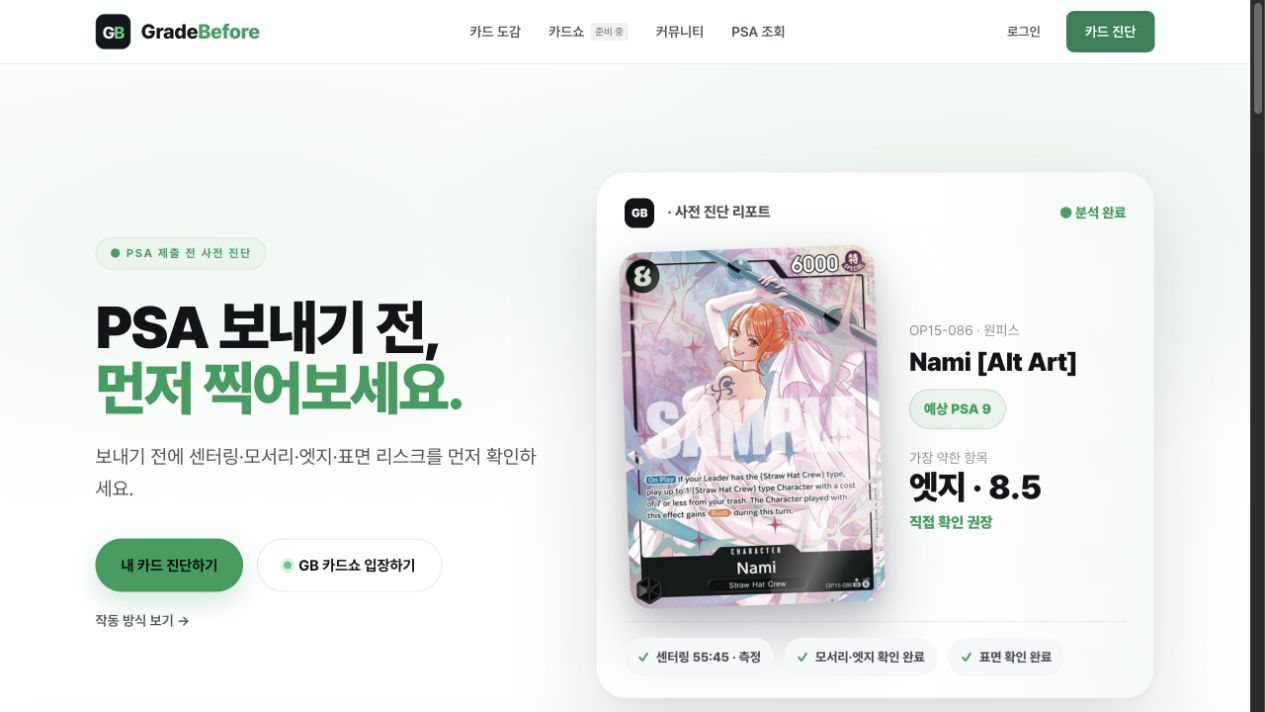
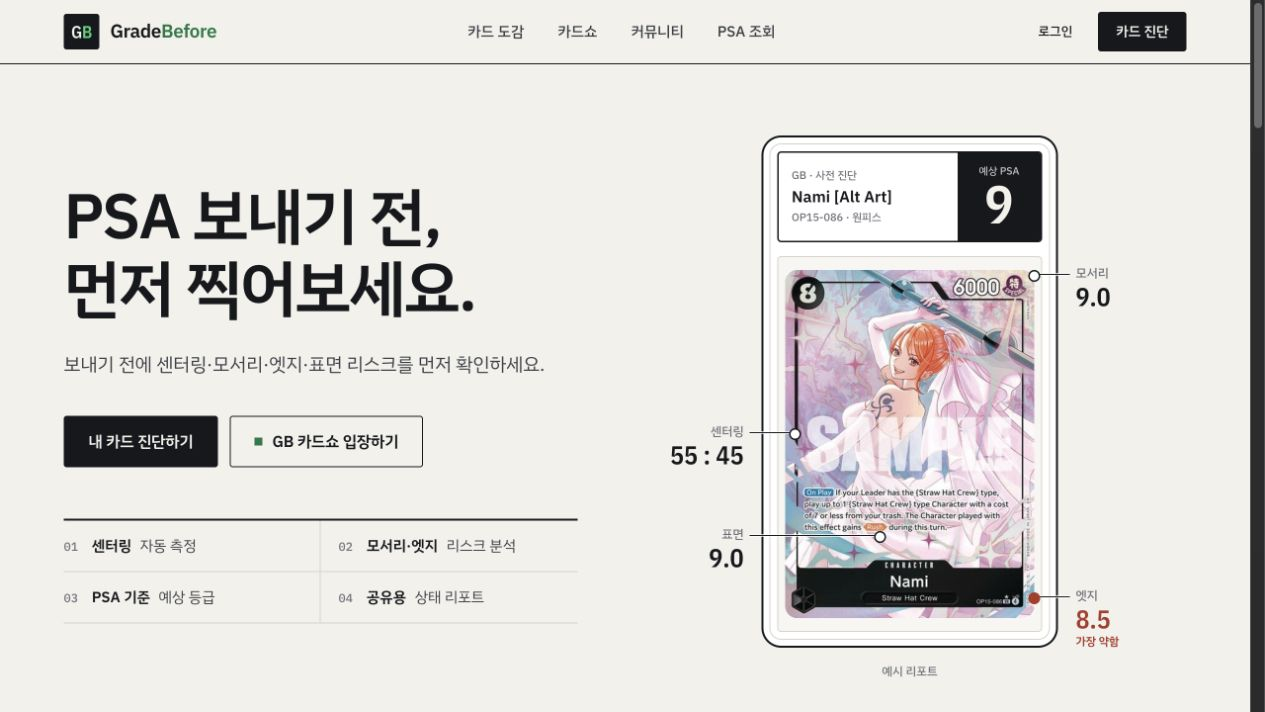
Refresh GradeBefore screenshot with redesigned homepage

diff --git a/index.html b/index.html
@@ -34,7 +34,7 @@
 <button class="menu-toggle" aria-expanded="false" aria-controls="mobile-nav" aria-label="메뉴 열기"><span></span><span></span></button></div>
 <nav id="mobile-nav" class="mobile-nav" aria-label="모바일 메뉴" hidden><a href="#products">Products <small>04</small></a><a href="#about">Technology</a><a href="#contact">Contact ↗</a></nav></header>
 <main id="main"><section class="hero container" aria-labelledby="hero-title"><div class="hero-topline"><span>SOFTWARE DEVELOPMENT</span><span>BASED IN KOREA</span></div><div class="hero-main"><h1 id="hero-title">Products for<br><span>real life.</span></h1><div class="hero-aside"><p class="hero-statement">데이터를 분석하고,<br>제품으로 구현합니다.</p><p class="hero-description">플러스랩코리아는 다양한 분야의 정보를 분석하고 구조화해, 웹·모바일 제품을 직접 개발하고 운영합니다.</p><div class="hero-actions"><a class="text-link" href="#products">프로덕트 살펴보기 <span aria-hidden="true">↓</span></a><a class="engineering-link" href="#about">구현 기술 보기 <span aria-hidden="true">↗</span></a></div></div></div><nav class="product-index" aria-label="프로덕트 바로가기"><a href="#folioobs"><span class="index-number">01</span><span class="index-name">FolioObs<small>투자 정보</small></span><span class="index-arrow" aria-hidden="true">↗</span></a><a href="#pethealth"><span class="index-number">02</span><span class="index-name">펫헬스플러스<small>반려동물 건강 기록</small></span><span class="index-arrow" aria-hidden="true">↗</span></a><a href="#agihanki"><span class="index-number">03</span><span class="index-name">아기한끼<small>이유식·유아식</small></span><span class="index-arrow" aria-hidden="true">↗</span></a><a href="#gradebefore"><span class="index-number">04</span><span class="index-name">GradeBefore<small>트레이딩 카드 분석</small></span><span class="index-arrow" aria-hidden="true">↗</span></a></nav></section>
-<section class="products container" id="products" aria-labelledby="products-title"><div class="section-intro"><div class="section-mark"><span>01</span><h2 id="products-title">Our products</h2><sup>04</sup></div><p>투자 · 반려동물 돌봄 · 아이의 식사 · 카드 수집</p></div><article class="product" id="folioobs"><div class="product-info"><div class="product-meta"><span>01</span><span>INVESTMENT DATA</span></div><h3>FolioObs</h3><p class="product-tagline">투자자의 움직임을, 공시에서 읽습니다.</p><p class="product-description">주요 투자자의 보유 종목과 변화를 공시 기준으로 살펴봅니다. 분기별 13F, ARK 일별 매매, 내부자·정치인 거래를 모아 투자 리서치의 출발점을 제공합니다.</p><p class="product-detail">분기별 보유 현황 · 공시 기반 매매 내역</p><a class="product-link" href="https://folioobs.com/investors/" target="_blank" rel="noopener noreferrer" aria-label="투자자 포트폴리오 보기 (새 창)">투자자 포트폴리오 보기 <span aria-hidden="true">↗</span></a></div><figure class="product-showcase"><a class="product-visual product-visual-web visual-folio" href="https://folioobs.com/" target="_blank" rel="noopener noreferrer" aria-label="FolioObs 서비스 열기 (새 창)"><div class="visual-caption"><span>FolioObs</span><span>WEB</span></div><div class="screen"><div class="browser-bar"><span class="browser-dots" aria-hidden="true">•••</span><span>folioobs.com</span><span aria-hidden="true">↗</span></div><img src="assets/folioobs-screen.jpg" width="1274" height="717" alt="FolioObs의 투자 공시와 포트폴리오 화면" loading="lazy"></div></a><figcaption><p class="product-flow"><span>투자 공시</span><span class="flow-arrow" aria-hidden="true">→</span><strong>보유 종목과 매매 흐름</strong></p><p class="product-evidence">공시 시점과 보고 주기를 기준으로 보는 투자 정보</p></figcaption></figure></article><article class="product" id="pethealth"><div class="product-info"><div class="product-meta"><span>02</span><span>PET HEALTHCARE</span></div><h3>펫헬스플러스</h3><p class="product-tagline">영수증에서 시작하는 반려동물 건강 이력.</p><p class="product-description">영수증, 검사결과, 접종 일정과 체중을 한곳에 모읍니다. 병원에 갈 때 지난 기록을 꺼내 보고, 가족과 같은 정보를 공유할 수 있습니다.</p><p class="product-detail">영수증 기록 · 진료 요약 · 가족 공유</p><a class="product-link" href="https://www.pethealthplus.kr/" target="_blank" rel="noopener noreferrer" aria-label="앱과 주요 기능 보기 (새 창)">앱과 주요 기능 보기 <span aria-hidden="true">↗</span></a></div><figure class="product-showcase"><a class="product-visual product-visual-web visual-pet" href="https://www.pethealthplus.kr/" target="_blank" rel="noopener noreferrer" aria-label="펫헬스플러스 서비스 열기 (새 창)"><div class="visual-caption"><span>PetHealth+</span><span>iOS · ANDROID</span></div><div class="screen"><div class="browser-bar"><span class="browser-dots" aria-hidden="true">•••</span><span>pethealthplus.kr</span><span aria-hidden="true">↗</span></div><div class="pet-hero-crop"><img src="assets/pethealth-hero.jpg" width="1274" height="717" alt="아이의 평생을 한 권에 담는 펫헬스플러스: 반려견 사진과 예방접종 기록이 있는 펼쳐진 건강수첩" loading="lazy"></div></div></a><figcaption><p class="product-flow"><span>진료 영수증·건강 서류</span><span class="flow-arrow" aria-hidden="true">→</span><strong>다시 꺼내 보는 진료 이력</strong></p><p class="product-evidence">지난 진료부터 다음 접종까지, 보호자가 이어 가는 기록</p></figcaption></figure></article><article class="product" id="agihanki"><div class="product-info"><div class="product-meta"><span>03</span><span>BABY FOOD & RECIPES</span></div><h3>아기한끼</h3><p class="product-tagline">요리 영상에서 재료와 조리 순서까지.</p><p class="product-description">아이의 월령과 재료에 맞는 이유식·유아식 영상을 찾습니다. 영상의 재료와 만드는 순서를 정리해, 식사 준비 중에도 필요한 내용을 바로 확인합니다.</p><p class="product-detail">월령·재료별 탐색 · 영상 레시피 정리</p><a class="product-link" href="https://www.agihanki.com/recipes/youtube" target="_blank" rel="noopener noreferrer" aria-label="영상 레시피 둘러보기 (새 창)">영상 레시피 둘러보기 <span aria-hidden="true">↗</span></a></div><figure class="product-showcase"><a class="product-visual product-visual-web visual-baby" href="https://www.agihanki.com/" target="_blank" rel="noopener noreferrer" aria-label="아기한끼 서비스 열기 (새 창)"><div class="visual-caption"><span>Agihanki</span><span>WEB</span></div><div class="screen"><div class="browser-bar"><span class="browser-dots" aria-hidden="true">•••</span><span>agihanki.com</span><span aria-hidden="true">↗</span></div><img src="assets/agihanki-screen.jpg" width="1265" height="712" alt="아기한끼의 월령별 이유식과 유아식 레시피 화면" loading="lazy"></div></a><figcaption><p class="product-flow"><span>이유식·유아식 영상</span><span class="flow-arrow" aria-hidden="true">→</span><strong>재료와 조리 순서</strong></p><p class="product-evidence">원본 영상과 출처를 함께 확인하는 레시피</p></figcaption></figure></article><article class="product" id="gradebefore"><div class="product-info"><div class="product-meta"><span>04</span><span>TRADING CARD ANALYSIS</span></div><h3>GradeBefore</h3><p class="product-tagline">감정에 보내기 전, 카드 상태부터.</p><p class="product-description">사진에서 센터링과 모서리, 엣지, 표면을 점검합니다. 자동 측정과 직접 확인을 거쳐 예상 등급을 살펴보고, 공식 감정에 제출할지 판단할 때 참고합니다.</p><p class="product-detail">사진 기반 상태 점검 · 비공식 사전 진단</p><a class="product-link" href="https://gradebefore.com/analyze" target="_blank" rel="noopener noreferrer" aria-label="카드 진단 살펴보기 (새 창)">카드 진단 살펴보기 <span aria-hidden="true">↗</span></a></div><figure class="product-showcase"><a class="product-visual product-visual-web visual-grade" href="https://gradebefore.com/" target="_blank" rel="noopener noreferrer" aria-label="GradeBefore 서비스 열기 (새 창)"><div class="visual-caption"><span>GradeBefore</span><span>WEB</span></div><div class="screen"><div class="browser-bar"><span class="browser-dots" aria-hidden="true">•••</span><span>gradebefore.com</span><span aria-hidden="true">↗</span></div><img src="assets/gradebefore-screen.jpg" width="1265" height="712" alt="GradeBefore의 트레이딩 카드 사전 진단 화면" loading="lazy"></div></a><figcaption><p class="product-flow"><span>카드 앞·뒷면 사진</span><span class="flow-arrow" aria-hidden="true">→</span><strong>제출 전 상태 리포트</strong></p><p class="product-evidence">항목별 점검과 예상 등급을 제공하는 비공식 진단</p></figcaption></figure></article></section>
+<section class="products container" id="products" aria-labelledby="products-title"><div class="section-intro"><div class="section-mark"><span>01</span><h2 id="products-title">Our products</h2><sup>04</sup></div><p>투자 · 반려동물 돌봄 · 아이의 식사 · 카드 수집</p></div><article class="product" id="folioobs"><div class="product-info"><div class="product-meta"><span>01</span><span>INVESTMENT DATA</span></div><h3>FolioObs</h3><p class="product-tagline">투자자의 움직임을, 공시에서 읽습니다.</p><p class="product-description">주요 투자자의 보유 종목과 변화를 공시 기준으로 살펴봅니다. 분기별 13F, ARK 일별 매매, 내부자·정치인 거래를 모아 투자 리서치의 출발점을 제공합니다.</p><p class="product-detail">분기별 보유 현황 · 공시 기반 매매 내역</p><a class="product-link" href="https://folioobs.com/investors/" target="_blank" rel="noopener noreferrer" aria-label="투자자 포트폴리오 보기 (새 창)">투자자 포트폴리오 보기 <span aria-hidden="true">↗</span></a></div><figure class="product-showcase"><a class="product-visual product-visual-web visual-folio" href="https://folioobs.com/" target="_blank" rel="noopener noreferrer" aria-label="FolioObs 서비스 열기 (새 창)"><div class="visual-caption"><span>FolioObs</span><span>WEB</span></div><div class="screen"><div class="browser-bar"><span class="browser-dots" aria-hidden="true">•••</span><span>folioobs.com</span><span aria-hidden="true">↗</span></div><img src="assets/folioobs-screen.jpg" width="1274" height="717" alt="FolioObs의 투자 공시와 포트폴리오 화면" loading="lazy"></div></a><figcaption><p class="product-flow"><span>투자 공시</span><span class="flow-arrow" aria-hidden="true">→</span><strong>보유 종목과 매매 흐름</strong></p><p class="product-evidence">공시 시점과 보고 주기를 기준으로 보는 투자 정보</p></figcaption></figure></article><article class="product" id="pethealth"><div class="product-info"><div class="product-meta"><span>02</span><span>PET HEALTHCARE</span></div><h3>펫헬스플러스</h3><p class="product-tagline">영수증에서 시작하는 반려동물 건강 이력.</p><p class="product-description">영수증, 검사결과, 접종 일정과 체중을 한곳에 모읍니다. 병원에 갈 때 지난 기록을 꺼내 보고, 가족과 같은 정보를 공유할 수 있습니다.</p><p class="product-detail">영수증 기록 · 진료 요약 · 가족 공유</p><a class="product-link" href="https://www.pethealthplus.kr/" target="_blank" rel="noopener noreferrer" aria-label="앱과 주요 기능 보기 (새 창)">앱과 주요 기능 보기 <span aria-hidden="true">↗</span></a></div><figure class="product-showcase"><a class="product-visual product-visual-web visual-pet" href="https://www.pethealthplus.kr/" target="_blank" rel="noopener noreferrer" aria-label="펫헬스플러스 서비스 열기 (새 창)"><div class="visual-caption"><span>PetHealth+</span><span>iOS · ANDROID</span></div><div class="screen"><div class="browser-bar"><span class="browser-dots" aria-hidden="true">•••</span><span>pethealthplus.kr</span><span aria-hidden="true">↗</span></div><div class="pet-hero-crop"><img src="assets/pethealth-hero.jpg" width="1274" height="717" alt="아이의 평생을 한 권에 담는 펫헬스플러스: 반려견 사진과 예방접종 기록이 있는 펼쳐진 건강수첩" loading="lazy"></div></div></a><figcaption><p class="product-flow"><span>진료 영수증·건강 서류</span><span class="flow-arrow" aria-hidden="true">→</span><strong>다시 꺼내 보는 진료 이력</strong></p><p class="product-evidence">지난 진료부터 다음 접종까지, 보호자가 이어 가는 기록</p></figcaption></figure></article><article class="product" id="agihanki"><div class="product-info"><div class="product-meta"><span>03</span><span>BABY FOOD & RECIPES</span></div><h3>아기한끼</h3><p class="product-tagline">요리 영상에서 재료와 조리 순서까지.</p><p class="product-description">아이의 월령과 재료에 맞는 이유식·유아식 영상을 찾습니다. 영상의 재료와 만드는 순서를 정리해, 식사 준비 중에도 필요한 내용을 바로 확인합니다.</p><p class="product-detail">월령·재료별 탐색 · 영상 레시피 정리</p><a class="product-link" href="https://www.agihanki.com/recipes/youtube" target="_blank" rel="noopener noreferrer" aria-label="영상 레시피 둘러보기 (새 창)">영상 레시피 둘러보기 <span aria-hidden="true">↗</span></a></div><figure class="product-showcase"><a class="product-visual product-visual-web visual-baby" href="https://www.agihanki.com/" target="_blank" rel="noopener noreferrer" aria-label="아기한끼 서비스 열기 (새 창)"><div class="visual-caption"><span>Agihanki</span><span>WEB</span></div><div class="screen"><div class="browser-bar"><span class="browser-dots" aria-hidden="true">•••</span><span>agihanki.com</span><span aria-hidden="true">↗</span></div><img src="assets/agihanki-screen.jpg" width="1265" height="712" alt="아기한끼의 월령별 이유식과 유아식 레시피 화면" loading="lazy"></div></a><figcaption><p class="product-flow"><span>이유식·유아식 영상</span><span class="flow-arrow" aria-hidden="true">→</span><strong>재료와 조리 순서</strong></p><p class="product-evidence">원본 영상과 출처를 함께 확인하는 레시피</p></figcaption></figure></article><article class="product" id="gradebefore"><div class="product-info"><div class="product-meta"><span>04</span><span>TRADING CARD ANALYSIS</span></div><h3>GradeBefore</h3><p class="product-tagline">감정에 보내기 전, 카드 상태부터.</p><p class="product-description">사진에서 센터링과 모서리, 엣지, 표면을 점검합니다. 자동 측정과 직접 확인을 거쳐 예상 등급을 살펴보고, 공식 감정에 제출할지 판단할 때 참고합니다.</p><p class="product-detail">사진 기반 상태 점검 · 비공식 사전 진단</p><a class="product-link" href="https://gradebefore.com/analyze" target="_blank" rel="noopener noreferrer" aria-label="카드 진단 살펴보기 (새 창)">카드 진단 살펴보기 <span aria-hidden="true">↗</span></a></div><figure class="product-showcase"><a class="product-visual product-visual-web visual-grade" href="https://gradebefore.com/" target="_blank" rel="noopener noreferrer" aria-label="GradeBefore 서비스 열기 (새 창)"><div class="visual-caption"><span>GradeBefore</span><span>WEB</span></div><div class="screen"><div class="browser-bar"><span class="browser-dots" aria-hidden="true">•••</span><span>gradebefore.com</span><span aria-hidden="true">↗</span></div><img src="assets/gradebefore-screen.jpg?v=20261012" width="1265" height="712" alt="GradeBefore의 새로운 카드 진단 화면: 예상 PSA 등급과 센터링·모서리·엣지·표면 점수 예시" loading="lazy"></div></a><figcaption><p class="product-flow"><span>카드 앞·뒷면 사진</span><span class="flow-arrow" aria-hidden="true">→</span><strong>제출 전 상태 리포트</strong></p><p class="product-evidence">항목별 점검과 예상 등급을 제공하는 비공식 진단</p></figcaption></figure></article></section>
 <section class="about" id="about" aria-labelledby="about-title">
 <div class="container">
 <div class="section-mark"><span>02</span><p>Engineering in practice</p></div>
